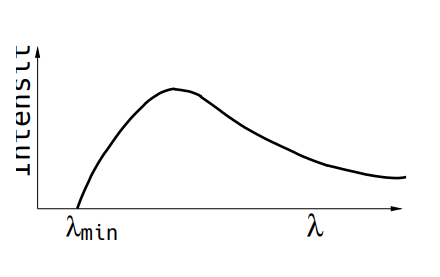
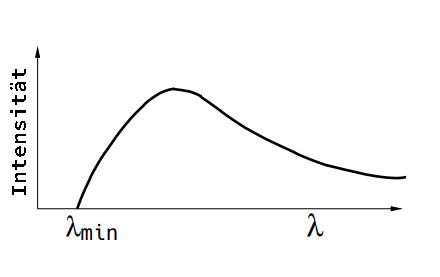
Korrektur

Changed region(s): [[0.0295, 0.231, 0.0886, 0.6931], [0.0295, 0.1733, 0.0886, 0.2022]]

diff --git a/content/theorie.tex b/content/theorie.tex
@@ -5,7 +5,7 @@ In diesem Versuch werden das Emissionsspektrum einer Kupfer-Röntgenröhre sowie
 \label{sec:Theorie}
 
 Röntgenstrahlen werden erzeugt, in dem in einer evakuierten Röhre Elektronen aus einer Glühkathode beschleunigt werden.
-Diese treffen auf eine Kupferanode. An dieser werden sie werden sie abgebremst und die verlorene kinetische Energie wird in ein Photon umgewandelt. Entsteht ein kontinuierliches Bremsspektrum wie in \autoref{fig:theo-brems} zu sehen.
+Diese treffen auf eine Kupferanode. An dieser werden sie werden sie abgebremst und die verlorene kinetische Energie wird in Photonen umgewandelt. Entsteht ein kontinuierliches Bremsspektrum wie in \autoref{fig:theo-brems} zu sehen.
 
 \begin{figure}
     \centering
@@ -22,6 +22,7 @@ Geben sie ihre gesamte Energie ab, so hat der Lichtquant entsprechend die minima
     \lambda_\text{min} = \frac{h c}{e_0 U}.
 \end{equation}
 
+Dabei ist $h$ das Planck'sche Wirkungsquantum und $c$ die Lichtgeschwindigkeit.
 Das kontinuierliche Spektrum wird des Weiteren von einem charakteristischen Spektrum überlagert.
 Dieses entsteht, wenn die Elektronen ein Atom ionisieren. Anschließend fällt ein Elektron aus einer höheren Schale herunter und emittiert ein Photon mit einer materialspezifischen Energie.
 Die Frequenz dieses Photons wird mittels
@@ -66,11 +67,11 @@ Somit berechnet sich die Abschirmkonstante wie folgt:
 
 \begin{equation}
     \label{eqn:abschirm}
-    \sigma_\text{L} = Z - \bigg( \frac{4}{\alpha} \sqrt{\frac{Delta E_\text{L}}{R_\infty }} - \frac{5 \Delta E_\text{L}}{R_\infty} \bigg)^\frac{1}{2} \cdot \bigg( 1 + \frac{19}{32} \alpha^2 \frac{\Delta E_\text{L}}{R_\infty} \bigg)^\frac{1}{2}.
+    \sigma_\text{L} = Z - \bigg( \frac{4}{\alpha} \sqrt{\frac{\Delta E_\text{L}}{R_\infty }} - \frac{5 \Delta E_\text{L}}{R_\infty} \bigg)^\frac{1}{2} \cdot \bigg( 1 + \frac{19}{32} \alpha^2 \frac{\Delta E_\text{L}}{R_\infty} \bigg)^\frac{1}{2}.
 \end{equation}
 
 Die Energie eines Röntgenquants wird experimentell mittels Bragg'scher Reflexion bestimmt.
-Dabei wird das Licht an einem Kristall reflektiert und man erhält bei einem Glannzwinkel $\theta$ konstruktive Interferenz.
+Dabei wird das Licht an einem Kristall reflektiert und es entsteht bei einem Glanzwinkel $\theta$ konstruktive Interferenz.
 Ist die Gitterkonstate $d$ des Kristalls bekannt, kann die zum Winkel gehörige Wellenlänge über die Bragg'sche Bedingung
 
 \begin{equation}
@@ -83,7 +84,5 @@ berechnet werden. Dabei ist $n$ die Ordnung, bei der die Interferenz auftritt.
 
 \begin{equation}
     \label{eqn:bragg-energie}
-    E = \frac{h c}{2 d \sin (\theta )},
+    E = \frac{h c}{2 d \sin (\theta )}.
 \end{equation}
-
-wobei $h$ das Planck'sche Wirkungsquantum und $c$ die Lichtgeschwindigkeit ist.
